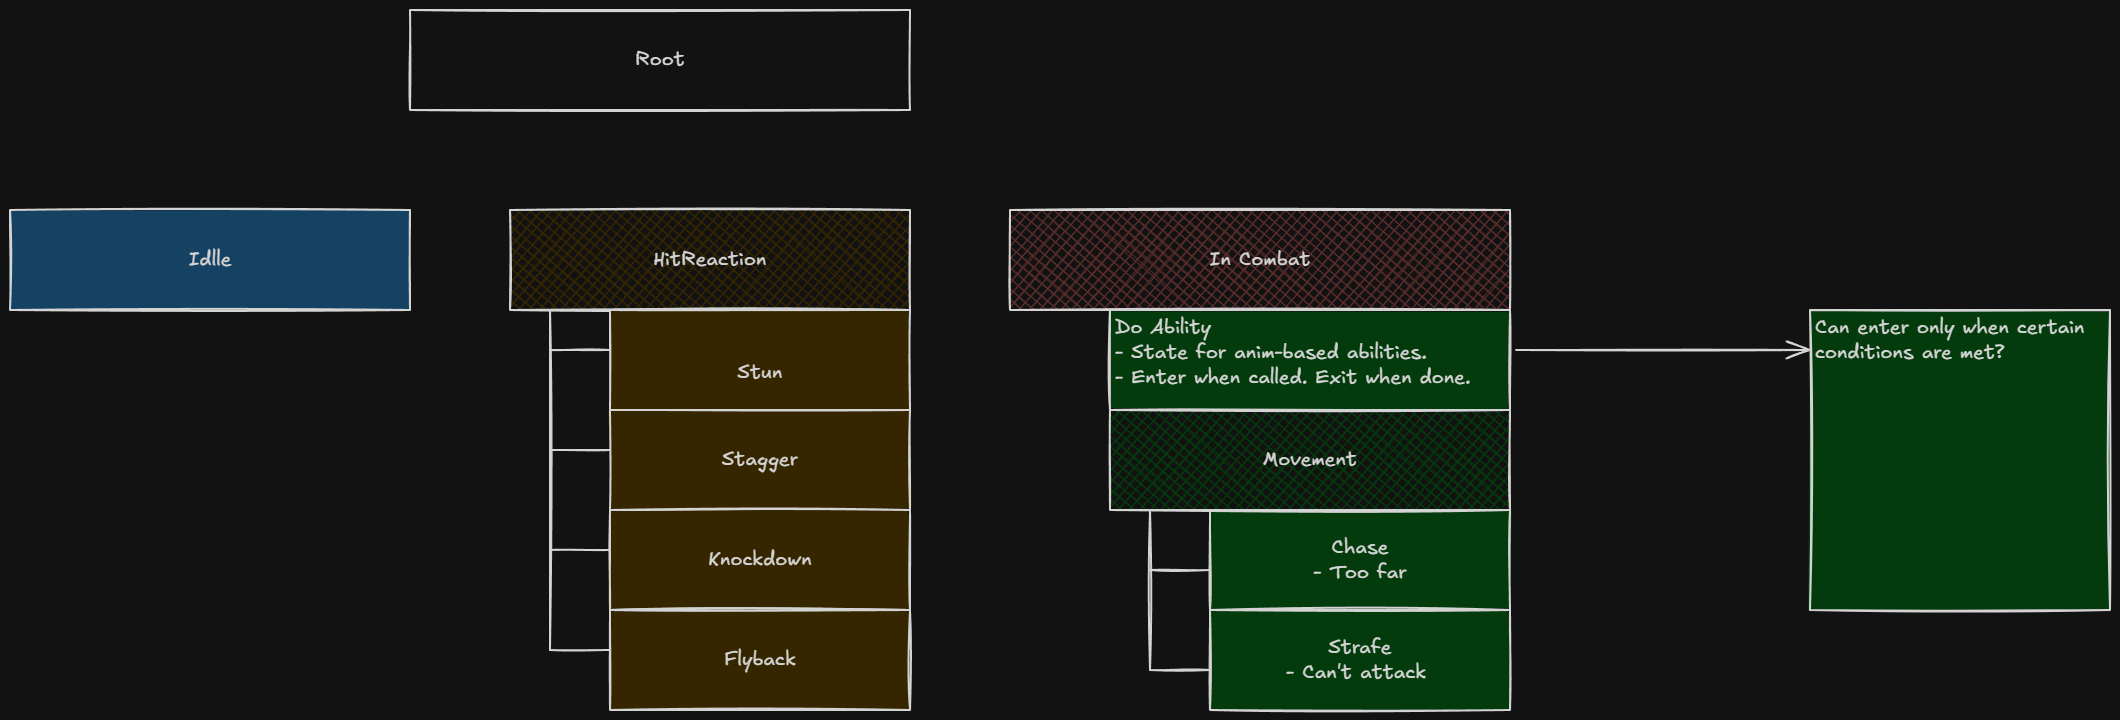
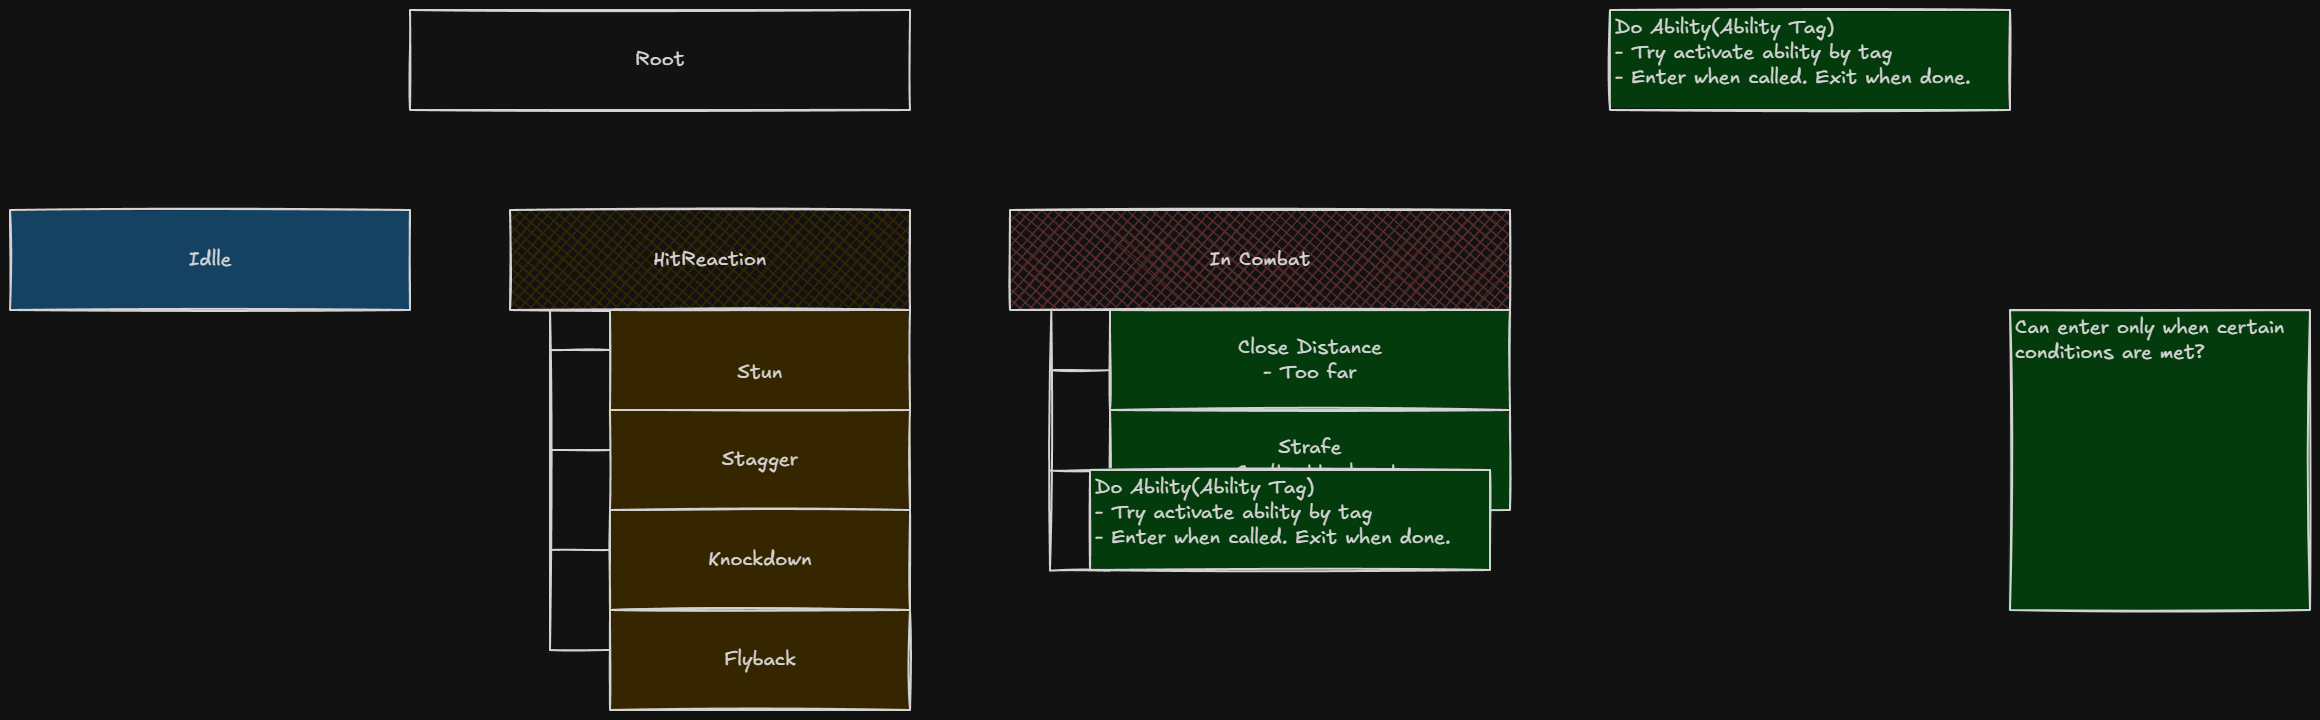
vault backup: 2026-06-04 22:06:26

diff --git a/Projects/Summer Project/Mechanics/AI Rework Graph.md b/Projects/Summer Project/Mechanics/AI Rework Graph.md
@@ -30,13 +30,17 @@ Close Distance
 Strafe
 - Can't attack yet ^CxHEqQMk
 
-Do Ability
-- State for anim-based abilities.
+Do Ability(Ability Tag)
+- Try activate ability by tag
 - Enter when called. Exit when done. ^uWY48rye
 
 In Combat ^M2kW6dxD
 
 Can enter only when certain conditions are met? ^W8DmXmwv
+
+Do Ability(Ability Tag)
+- Try activate ability by tag
+- Enter when called. Exit when done. ^fabw70Hu
 
 %%
 ## Drawing
@@ -95,50 +99,52 @@ d+v5bFeGbzvDwLseO6Y3dLphorrhomeEKmdlfnpRqGoHIxpWhVfwrVeDDoQDGjEBYYARMs0CsySNYEUW
 
[1 lines of base64/hex data omitted]
 
[2 lines of base64/hex data omitted]
 
[2 lines of base64/hex data omitted]
 
[2 lines of base64/hex data omitted]
 
[2 lines of base64/hex data omitted]
 
[2 lines of base64/hex data omitted]
 
[2 lines of base64/hex data omitted]
 
[2 lines of base64/hex data omitted]
 
[2 lines of base64/hex data omitted]
 
[2 lines of base64/hex data omitted]
 
[2 lines of base64/hex data omitted]
 
[2 lines of base64/hex data omitted]
 
[2 lines of base64/hex data omitted]
 
[2 lines of base64/hex data omitted]
 
[2 lines of base64/hex data omitted]
 
[2 lines of base64/hex data omitted]
 
[2 lines of base64/hex data omitted]
 
[2 lines of base64/hex data omitted]
 
[2 lines of base64/hex data omitted]
 
[2 lines of base64/hex data omitted]
 
[2 lines of base64/hex data omitted]
 
[2 lines of base64/hex data omitted]
 
[2 lines of base64/hex data omitted]
 
[2 lines of base64/hex data omitted]
+
+3APgZArBnsTZJs5pgENPBAVTYphxZCKrRzV9lwQTUMADnAzggAA=
 ```
 %%
